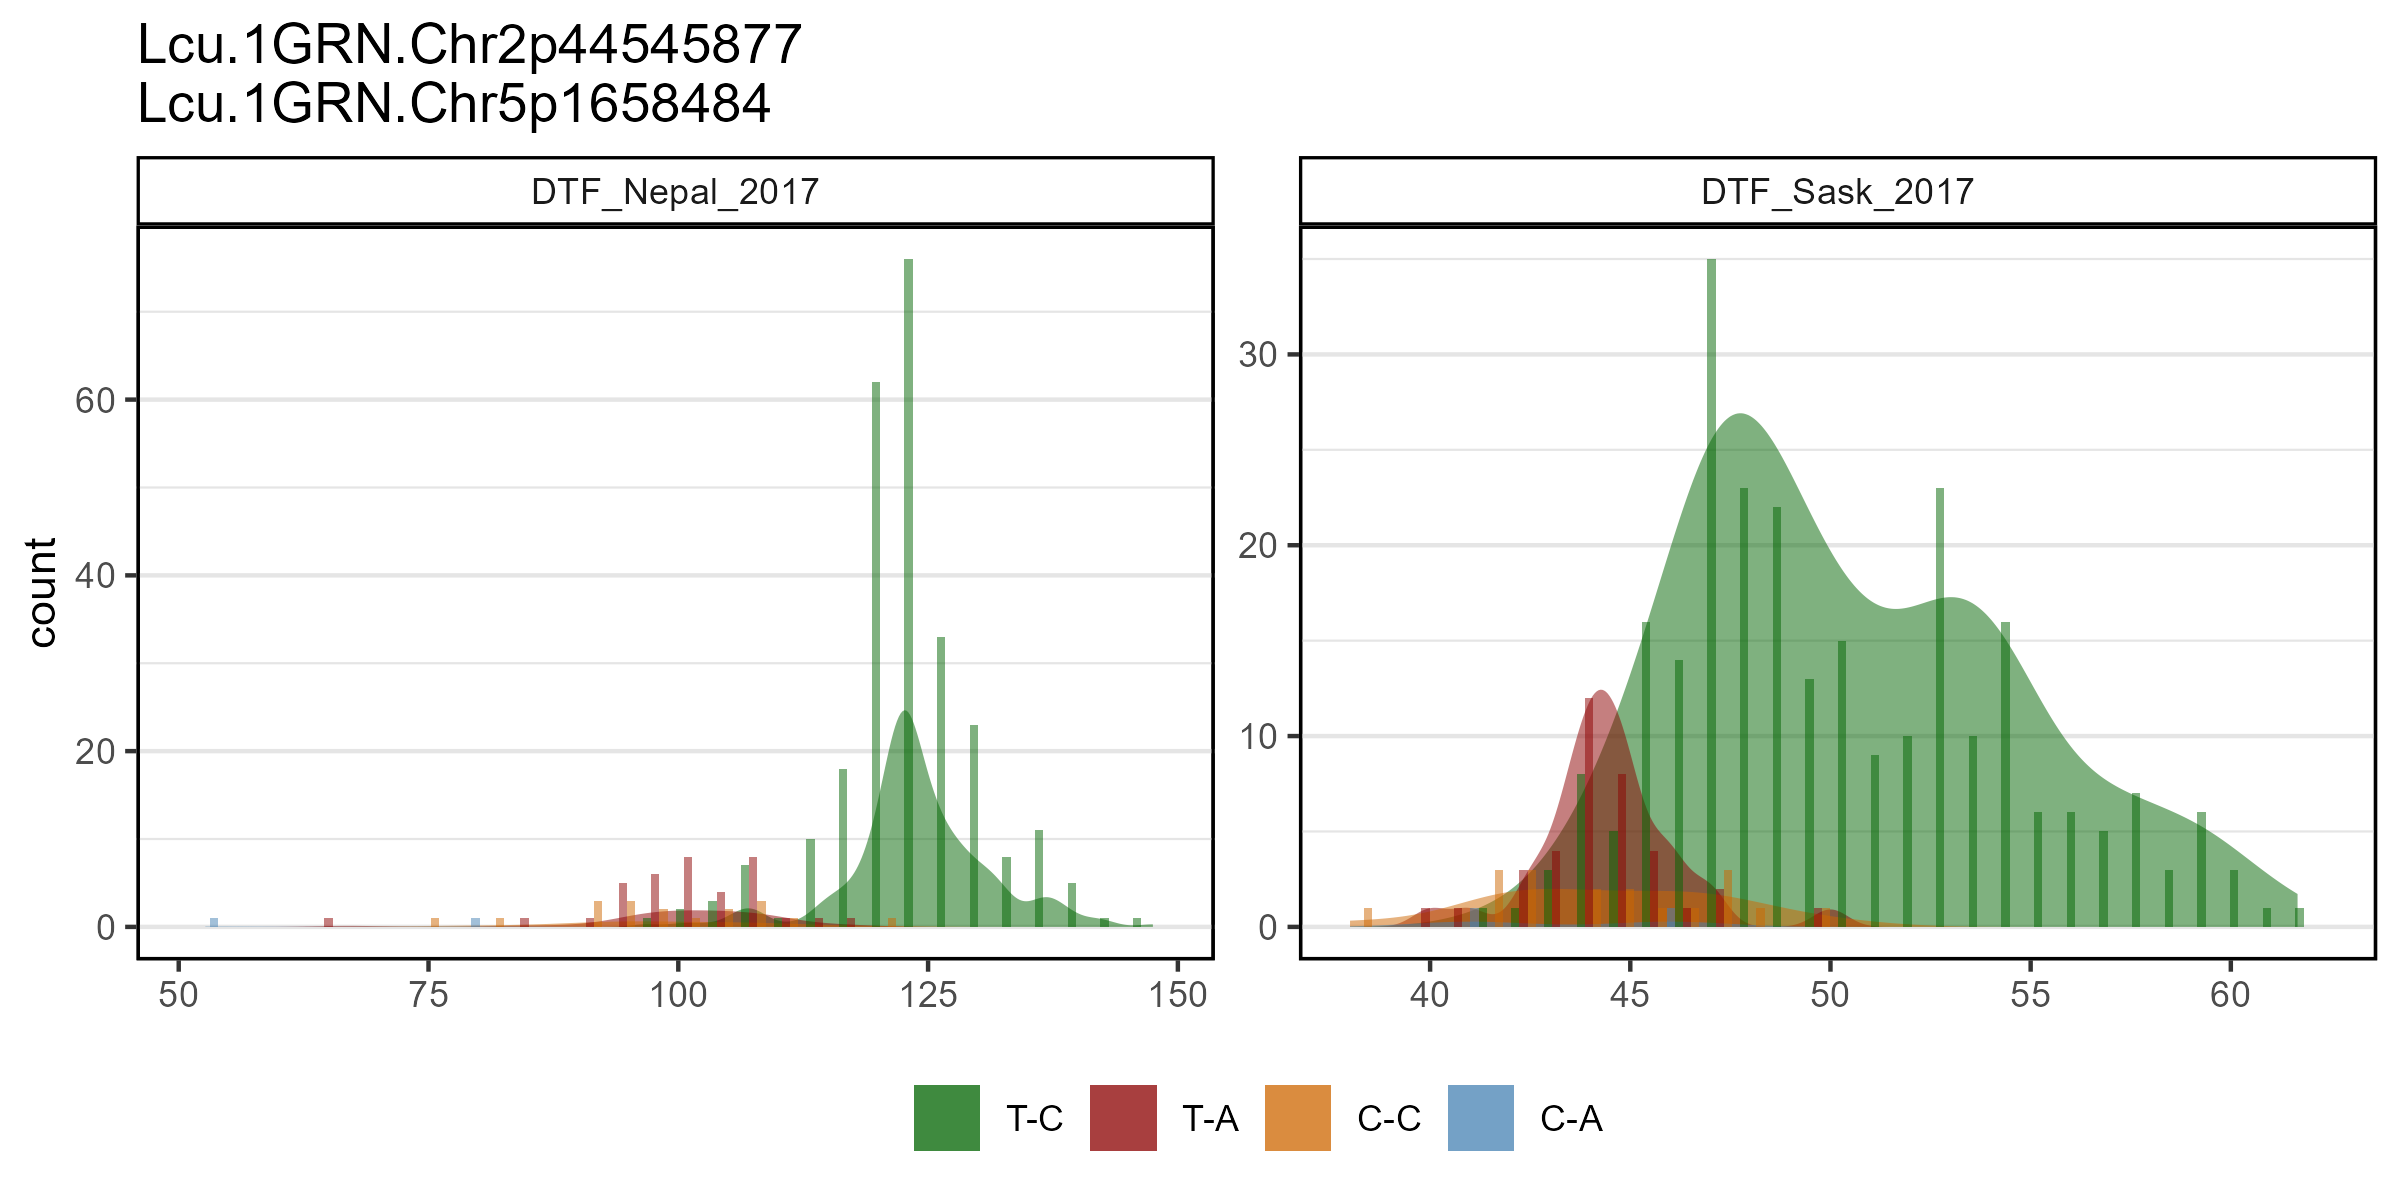
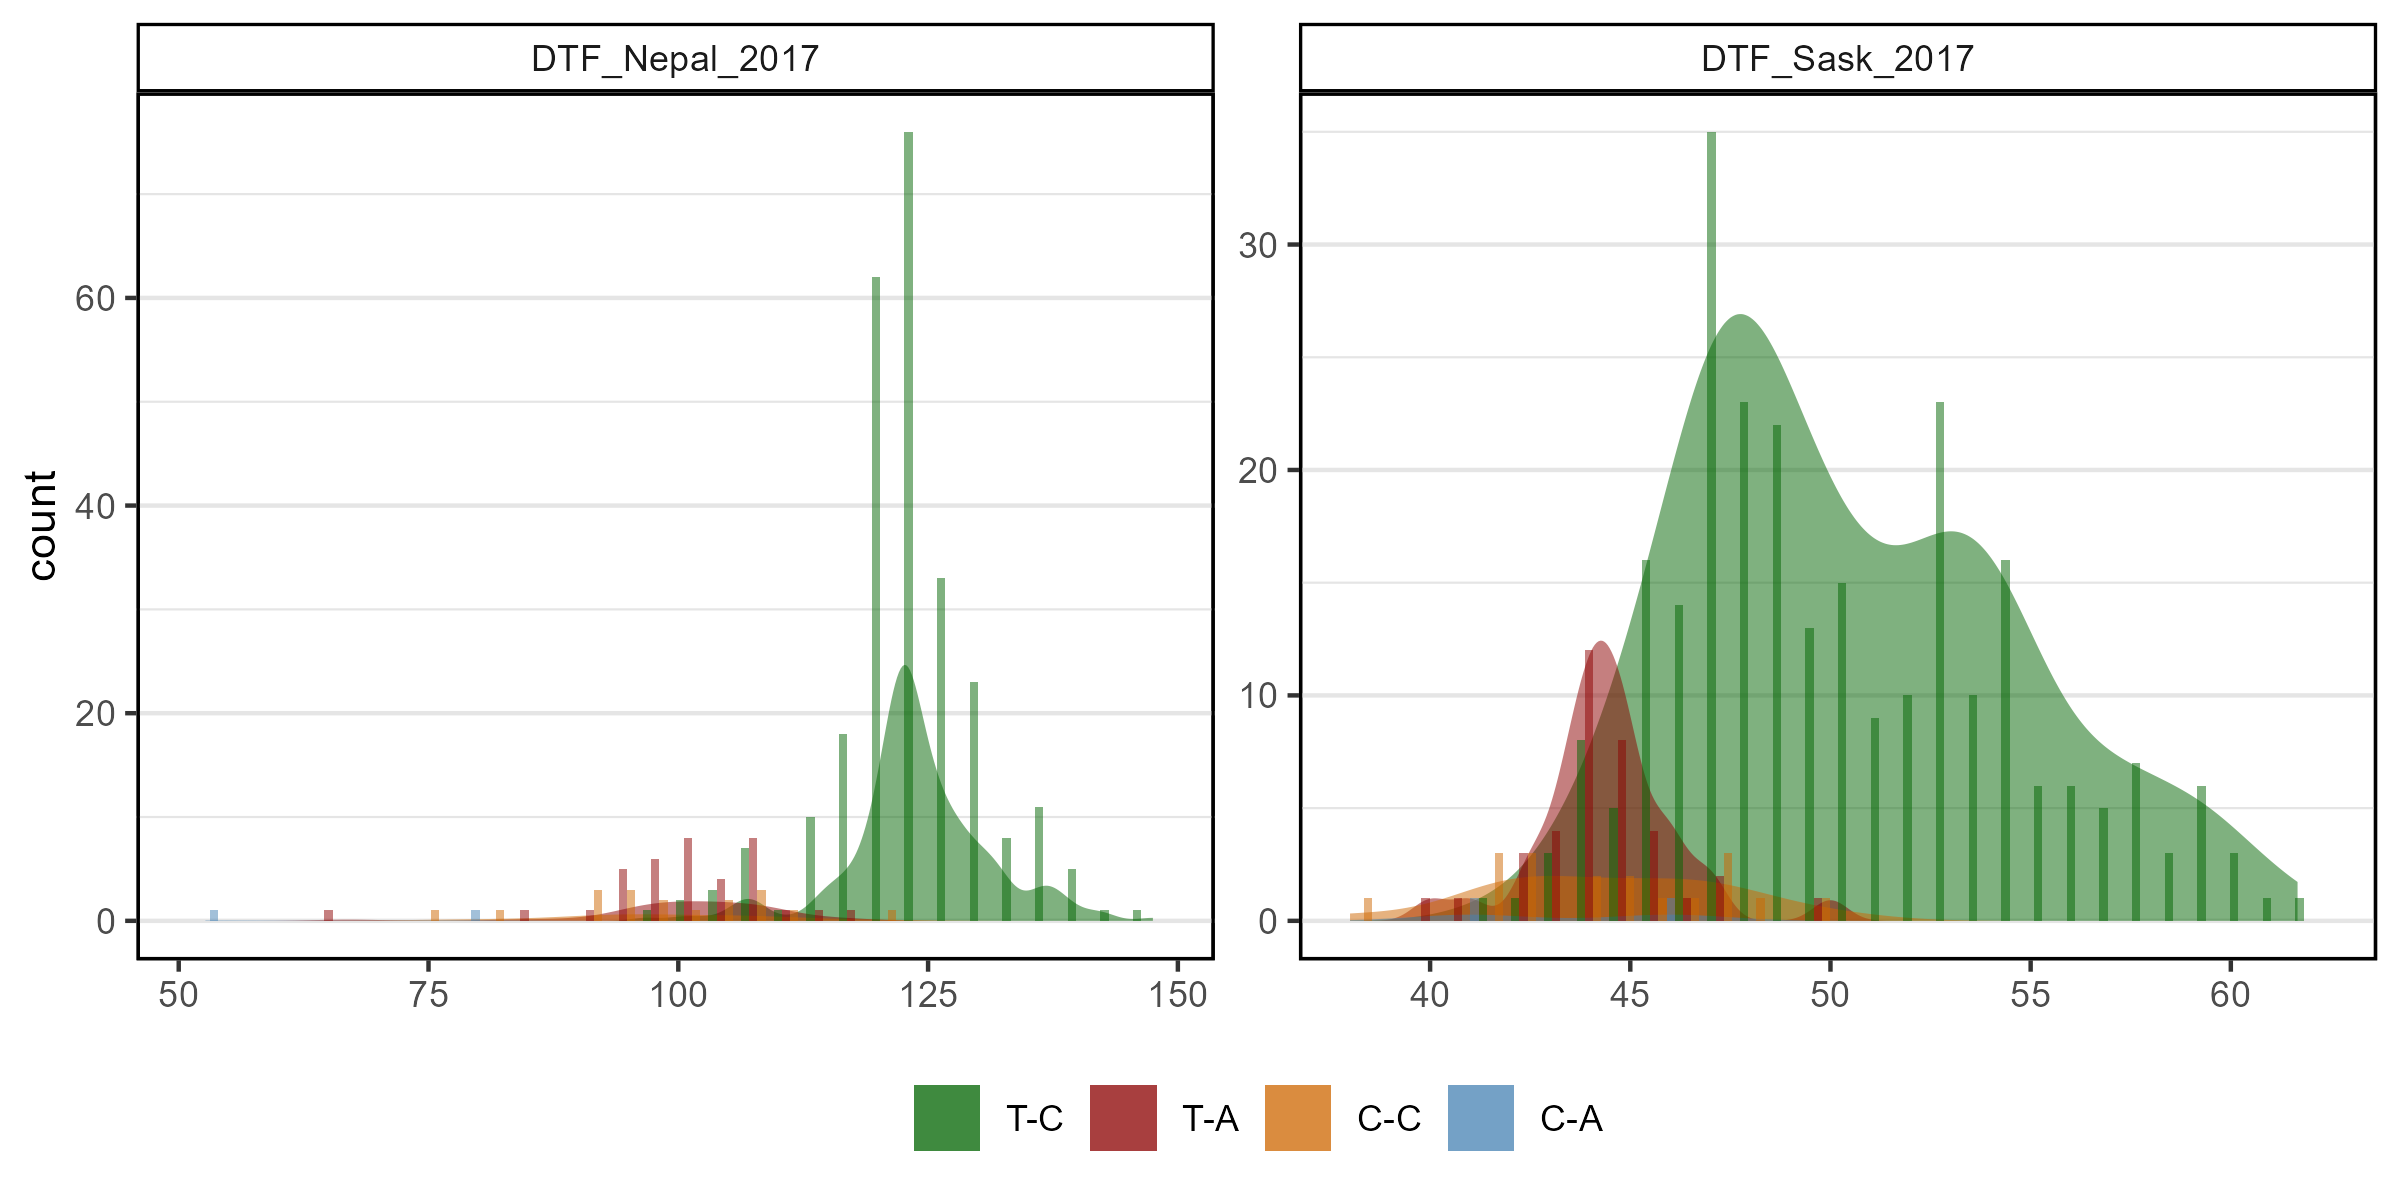
Deploying to gh-pages from @ derekmichaelwright/gwaspr@c6c998328994fec0ce0c70328bb35094693e8008 🚀

diff --git a/index.html b/index.html
@@ -468,20 +468,15 @@
 <div class="sourceCode" id="cb31"><pre class="downlit sourceCode r">
 <code class="sourceCode R"><span><span class="va">myG</span> <span class="op">&lt;-</span> <span class="fu"><a href="https://rdrr.io/r/utils/read.table.html" class="external-link">read.csv</a></span><span class="op">(</span><span class="st">"myG_hmp.csv"</span><span class="op">)</span></span>
 <span><span class="va">myY</span> <span class="op">&lt;-</span> <span class="fu"><a href="https://rdrr.io/r/utils/read.table.html" class="external-link">read.csv</a></span><span class="op">(</span><span class="st">"myY.csv"</span><span class="op">)</span></span></code></pre></div>
-</div>
-<div class="section level2">
-<h2 id="gg_marker_box">gg_Marker_Box()<a class="anchor" aria-label="anchor" href="#gg_marker_box"></a>
-</h2>
+<div class="section level3">
+<h3 id="gg_marker_box">gg_Marker_Box()<a class="anchor" aria-label="anchor" href="#gg_marker_box"></a>
+</h3>
 <p><img src="reference/figures/gg_Marker_01.png"></p>
 <div class="sourceCode" id="cb32"><pre class="downlit sourceCode r">
 <code class="sourceCode R"><span><span class="va">mp</span> <span class="op">&lt;-</span> <span class="fu"><a href="reference/gg_Marker_Box.html">gg_Marker_Box</a></span><span class="op">(</span>xG <span class="op">=</span> <span class="va">myG</span>, xY <span class="op">=</span> <span class="va">myY</span>,</span>
 <span>                    traits <span class="op">=</span> <span class="st">"DTF_Sask_2017"</span>,</span>
 <span>                    markers <span class="op">=</span> <span class="st">"Lcu.1GRN.Chr6p3269280"</span>,</span>
-<span>                    plot.violin <span class="op">=</span> <span class="cn">T</span>,</span>
-<span>                    plot.points <span class="op">=</span> <span class="cn">T</span>,</span>
-<span>                    box.width <span class="op">=</span> <span class="fl">0.1</span>,</span>
-<span>                    point.size <span class="op">=</span> <span class="fl">1</span>,</span>
-<span>                    myncol <span class="op">=</span> <span class="cn">NULL</span> </span>
+<span>                    plot.points <span class="op">=</span> <span class="cn">F</span></span>
 <span>                    <span class="op">)</span></span>
 <span><span class="fu">ggsave</span><span class="op">(</span><span class="st">"man/figures/gg_Marker_01.png"</span>, <span class="va">mp</span>, width <span class="op">=</span> <span class="fl">6</span>, height <span class="op">=</span> <span class="fl">4</span><span class="op">)</span></span></code></pre></div>
 <hr>
@@ -489,47 +484,44 @@
 <div class="sourceCode" id="cb33"><pre class="downlit sourceCode r">
 <code class="sourceCode R"><span><span class="va">mp</span> <span class="op">&lt;-</span> <span class="fu"><a href="reference/gg_Marker_Box.html">gg_Marker_Box</a></span><span class="op">(</span>xG <span class="op">=</span> <span class="va">myG</span>, xY <span class="op">=</span> <span class="va">myY</span>,</span>
 <span>                    traits <span class="op">=</span> <span class="fu"><a href="https://rdrr.io/r/base/c.html" class="external-link">c</a></span><span class="op">(</span><span class="st">"DTF_Nepal_2017"</span>, <span class="st">"DTF_Sask_2017"</span><span class="op">)</span>,</span>
-<span>                    markers <span class="op">=</span> <span class="fu"><a href="https://rdrr.io/r/base/c.html" class="external-link">c</a></span><span class="op">(</span><span class="st">"Lcu.1GRN.Chr2p44545877"</span>, <span class="st">"Lcu.1GRN.Chr5p1658484"</span><span class="op">)</span>,</span>
-<span>                    plot.violin <span class="op">=</span> <span class="cn">T</span>,</span>
-<span>                    plot.points <span class="op">=</span> <span class="cn">T</span>,</span>
-<span>                    box.width <span class="op">=</span> <span class="fl">0.1</span>,</span>
-<span>                    point.size <span class="op">=</span> <span class="fl">1</span>,</span>
-<span>                    myncol <span class="op">=</span> <span class="cn">NULL</span> </span>
+<span>                    markers <span class="op">=</span> <span class="fu"><a href="https://rdrr.io/r/base/c.html" class="external-link">c</a></span><span class="op">(</span><span class="st">"Lcu.1GRN.Chr5p1658484"</span>, <span class="st">"Lcu.1GRN.Chr2p44545877"</span><span class="op">)</span></span>
 <span>                    <span class="op">)</span></span>
 <span><span class="fu">ggsave</span><span class="op">(</span><span class="st">"man/figures/gg_Marker_02.png"</span>, <span class="va">mp</span>, width <span class="op">=</span> <span class="fl">8</span>, height <span class="op">=</span> <span class="fl">4</span><span class="op">)</span></span></code></pre></div>
 <hr>
+</div>
 </div>
 <div class="section level2">
 <h2 id="gg_marker_bar">gg_Marker_Bar()<a class="anchor" aria-label="anchor" href="#gg_marker_bar"></a>
 </h2>
 <p><img src="reference/figures/gg_Marker_03.png"></p>
 <div class="sourceCode" id="cb34"><pre class="downlit sourceCode r">
+<code class="sourceCode R"><span><span class="va">mp</span> <span class="op">&lt;-</span> <span class="fu"><a href="reference/gg_Marker_Bar.html">gg_Marker_Bar</a></span><span class="op">(</span>xG <span class="op">=</span> <span class="va">myG</span>, xY <span class="op">=</span> <span class="va">myY</span>,</span>
+<span>                    traits <span class="op">=</span> <span class="fu"><a href="https://rdrr.io/r/base/c.html" class="external-link">c</a></span><span class="op">(</span><span class="st">"DTF_Nepal_2017"</span>, <span class="st">"DTF_Sask_2017"</span><span class="op">)</span>,</span>
+<span>                    markers <span class="op">=</span> <span class="fu"><a href="https://rdrr.io/r/base/c.html" class="external-link">c</a></span><span class="op">(</span><span class="st">"Lcu.1GRN.Chr2p44545877"</span>, <span class="st">"Lcu.1GRN.Chr5p1658484"</span><span class="op">)</span></span>
+<span>                    <span class="op">)</span></span>
+<span><span class="fu">ggsave</span><span class="op">(</span><span class="st">"man/figures/gg_Marker_03.png"</span>, <span class="va">mp</span>, width <span class="op">=</span> <span class="fl">8</span>, height <span class="op">=</span> <span class="fl">4</span><span class="op">)</span></span></code></pre></div>
+<hr>
+<p><img src="reference/figures/gg_Marker_04.png"></p>
+<div class="sourceCode" id="cb35"><pre class="downlit sourceCode r">
 <code class="sourceCode R"><span><span class="co"># Plot </span></span>
 <span><span class="va">mp</span> <span class="op">&lt;-</span> <span class="fu"><a href="reference/gg_Marker_Bar.html">gg_Marker_Bar</a></span><span class="op">(</span>xG <span class="op">=</span> <span class="va">myG</span>, xY <span class="op">=</span> <span class="va">myY</span>,</span>
 <span>                    traits <span class="op">=</span> <span class="st">"CotyledonColor"</span>,</span>
 <span>                    markers <span class="op">=</span> <span class="st">"Lcu.1GRN.Chr1p365986872"</span>,</span>
-<span>                    plot.histogram <span class="op">=</span> <span class="cn">T</span>,</span>
-<span>                    plot.density <span class="op">=</span> <span class="cn">F</span>,</span>
-<span>                    plot.counts <span class="op">=</span> <span class="cn">T</span>,</span>
-<span>                    myncol <span class="op">=</span> <span class="cn">NULL</span>,</span>
-<span>                    line.color <span class="op">=</span> <span class="cn">F</span></span>
+<span>                    plot.density <span class="op">=</span> <span class="cn">F</span></span>
 <span>                    <span class="op">)</span></span>
 <span><span class="co"># Save</span></span>
-<span><span class="fu">ggsave</span><span class="op">(</span><span class="st">"man/figures/gg_Marker_03.png"</span>, <span class="va">mp</span>, width <span class="op">=</span> <span class="fl">6</span>, height <span class="op">=</span> <span class="fl">4</span><span class="op">)</span></span></code></pre></div>
-<p><img src="reference/figures/gg_Marker_03.png"></p>
-<div class="sourceCode" id="cb35"><pre class="downlit sourceCode r">
+<span><span class="fu">ggsave</span><span class="op">(</span><span class="st">"man/figures/gg_Marker_04.png"</span>, <span class="va">mp</span>, width <span class="op">=</span> <span class="fl">6</span>, height <span class="op">=</span> <span class="fl">4</span><span class="op">)</span></span></code></pre></div>
+<hr>
+<p><img src="reference/figures/gg_Marker_05.png"></p>
+<div class="sourceCode" id="cb36"><pre class="downlit sourceCode r">
 <code class="sourceCode R"><span><span class="co"># Plot </span></span>
 <span><span class="va">mp</span> <span class="op">&lt;-</span> <span class="fu"><a href="reference/gg_Marker_Bar.html">gg_Marker_Bar</a></span><span class="op">(</span>xG <span class="op">=</span> <span class="va">myG</span>, xY <span class="op">=</span> <span class="va">myY</span>,</span>
 <span>                    traits <span class="op">=</span> <span class="st">"CotyledonColor01"</span>,</span>
 <span>                    markers <span class="op">=</span> <span class="st">"Lcu.1GRN.Chr1p365986872"</span>,</span>
-<span>                    plot.histogram <span class="op">=</span> <span class="cn">T</span>,</span>
 <span>                    plot.density <span class="op">=</span> <span class="cn">F</span>,</span>
-<span>                    plot.counts <span class="op">=</span> <span class="cn">T</span>,</span>
-<span>                    myncol <span class="op">=</span> <span class="cn">NULL</span>,</span>
-<span>                    line.color <span class="op">=</span> <span class="cn">F</span></span>
 <span>                    <span class="op">)</span></span>
 <span><span class="co"># Save</span></span>
-<span><span class="fu">ggsave</span><span class="op">(</span><span class="st">"man/figures/gg_Marker_04.png"</span>, <span class="va">mp</span>, width <span class="op">=</span> <span class="fl">6</span>, height <span class="op">=</span> <span class="fl">4</span><span class="op">)</span></span></code></pre></div>
+<span><span class="fu">ggsave</span><span class="op">(</span><span class="st">"man/figures/gg_Marker_05.png"</span>, <span class="va">mp</span>, width <span class="op">=</span> <span class="fl">6</span>, height <span class="op">=</span> <span class="fl">4</span><span class="op">)</span></span></code></pre></div>
 <hr>
 </div>
 </div>

diff --git a/reference/gg_Marker_Bar.html b/reference/gg_Marker_Bar.html
@@ -45,7 +45,7 @@
 <span>  marker.colors <span class="op">=</span> <span class="va">gwaspr_Colors</span>,</span>
 <span>  plot.histogram <span class="op">=</span> <span class="cn">T</span>,</span>
 <span>  plot.density <span class="op">=</span> <span class="cn">T</span>,</span>
-<span>  plot.counts <span class="op">=</span> <span class="cn">F</span>,</span>
+<span>  plot.counts <span class="op">=</span> <span class="cn">T</span>,</span>
 <span>  myncol <span class="op">=</span> <span class="cn">NULL</span>,</span>
 <span>  line.color <span class="op">=</span> <span class="cn">F</span>,</span>
 <span>  title <span class="op">=</span> <span class="cn">NULL</span></span>